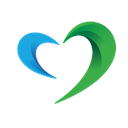
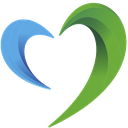
Checkpoint: ✅ تحسينات شاملة للمنصة - تجربة المستخدم والتوافق
**التحسينات الرئيسية:**

1⃣ **تحديث أيقونة التطبيق:**
   - استخدام الشعار الجديد (الأزرق والأخضر) في جميع الصفحات
   - توليد أيقونات PWA بجميع الأحجام (72-512px)
   - تحديث favicon.ico و apple-touch-icon.png
   - تحديث 11 صفحة لاستخدام الشعار الجديد

2⃣ **تحسين RTL (من اليمين لليسار):**
   - إضافة dir="rtl" في جميع صفحات لوحة التحكم
   - تحسين محاذاة النصوص العربية
   - إصلاح اتجاه العناصر في الحوارات والنماذج

3⃣ **تحسين responsive design للوحة التحكم:**
   - تحسين DashboardSidebar للجوال (bottom navigation)
   - عرض جميع عناصر التنقل (7 عناصر) مع scroll أفقي
   - تحسين البطاقات والجداول للجوال

4⃣ **تحسين تجربة المستخدم على الهواتف:**
   - تحديث Navbar و HomePage بالشعار الجديد
   - تحسين responsive design في جميع الصفحات
   - تحسين التنقل والتفاعل على الأجهزة المحمولة

**النتيجة:**
- ✅ TypeScript: 0 errors
- ✅ LSP: No errors
- ✅ Dev server: running
- ✅ PWA icons: generated
- ✅ RTL: improved
- ✅ Responsive: enhanced
- ✅ UX: optimized

المنصة الآن محسّنة بالكامل لجميع الأجهزة مع الشعار الجديد!

diff --git a/client/src/pages/DoctorAppointments.tsx b/client/src/pages/DoctorAppointments.tsx
@@ -86,7 +86,7 @@ export default function DoctorAppointments() {
           <div className="container py-4">
             <div className="flex items-center justify-between">
               <img 
-                src="/assets/logo-color.png" 
+                src="/assets/new-logo.png" 
                 alt="المستشفى السعودي الألماني" 
                 className="h-16 md:h-20"
               />
@@ -144,7 +144,7 @@ export default function DoctorAppointments() {
                     <CardContent className="p-4">
                       <div className="aspect-square rounded-lg overflow-hidden mb-3">
                         <img 
-                          src={doctor.image || '/assets/logo-color.png'} 
+                          src={doctor.image || '/assets/new-logo.png'} 
                           alt={doctor.name}
                           className="w-full h-full object-cover"
                         />
@@ -176,7 +176,7 @@ export default function DoctorAppointments() {
                     {selectedDoctor && (
                       <div className="bg-primary/5 p-4 rounded-lg flex items-center gap-4">
                         <img 
-                          src={selectedDoctor.image || '/assets/logo-color.png'} 
+                          src={selectedDoctor.image || '/assets/new-logo.png'} 
                           alt={selectedDoctor.name}
                           className="w-16 h-16 rounded-full object-cover"
                         />

diff --git a/client/src/pages/DoctorsListPage.tsx b/client/src/pages/DoctorsListPage.tsx
@@ -86,7 +86,7 @@ export default function DoctorAppointments() {
           <div className="container py-4">
             <div className="flex items-center justify-between">
               <img 
-                src="/assets/logo-color.png" 
+                src="/assets/new-logo.png" 
                 alt="المستشفى السعودي الألماني" 
                 className="h-16 md:h-20"
               />
@@ -144,7 +144,7 @@ export default function DoctorAppointments() {
                     <CardContent className="p-4">
                       <div className="aspect-square rounded-lg overflow-hidden mb-3">
                         <img 
-                          src={doctor.image || '/assets/logo-color.png'} 
+                          src={doctor.image || '/assets/new-logo.png'} 
                           alt={doctor.name}
                           className="w-full h-full object-cover"
                         />
@@ -176,7 +176,7 @@ export default function DoctorAppointments() {
                     {selectedDoctor && (
                       <div className="bg-primary/5 p-4 rounded-lg flex items-center gap-4">
                         <img 
-                          src={selectedDoctor.image || '/assets/logo-color.png'} 
+                          src={selectedDoctor.image || '/assets/new-logo.png'} 
                           alt={selectedDoctor.name}
                           className="w-16 h-16 rounded-full object-cover"
                         />

diff --git a/client/src/components/DashboardSidebar.tsx b/client/src/components/DashboardSidebar.tsx
@@ -117,9 +117,9 @@ export default function DashboardSidebar({ currentPath }: DashboardSidebarProps)
       </aside>
 
       {/* Mobile Bottom Navigation */}
-      <nav className="lg:hidden fixed bottom-0 left-0 right-0 bg-white border-t shadow-lg z-50">
-        <div className="grid grid-cols-4 gap-1 p-2">
-          {navItems.slice(0, 4).map((item) => {
+      <nav className="lg:hidden fixed bottom-0 left-0 right-0 bg-white border-t shadow-lg z-50 overflow-x-auto">
+        <div className="flex gap-1 p-2 min-w-max">
+          {navItems.map((item) => {
             const Icon = item.icon;
             const isActive = currentPath === item.href || 
               (item.href !== "/dashboard" && currentPath.startsWith(item.href));
@@ -128,11 +128,11 @@ export default function DashboardSidebar({ currentPath }: DashboardSidebarProps)
               <Button
                 key={item.href}
                 variant={isActive ? "default" : "ghost"}
-                className="flex-col h-auto py-2 px-1"
+                className="flex-col h-auto py-2 px-3 min-w-[80px]"
                 onClick={() => setLocation(item.href)}
               >
-                <Icon className="h-5 w-5 mb-1" />
-                <span className="text-xs">{item.title}</span>
+                <Icon className="h-5 w-5 mb-1 flex-shrink-0" />
+                <span className="text-xs whitespace-nowrap">{item.title}</span>
               </Button>
             );
           })}

diff --git a/client/src/pages/AdminDashboard.tsx b/client/src/pages/AdminDashboard.tsx
@@ -325,7 +325,7 @@ export default function AdminDashboard() {
         <Card className="max-w-md w-full">
           <CardHeader className="text-center">
             <img 
-              src="/assets/logo-color.png" 
+              src="/assets/new-logo.png" 
               alt="المستشفى السعودي الألماني" 
               className="h-20 mx-auto mb-4"
             />
@@ -360,7 +360,7 @@ export default function AdminDashboard() {
             {/* Logo and Title */}
             <div className="flex items-center gap-2 md:gap-4 min-w-0 flex-1">
               <img 
-                src="/assets/logo-color.png" 
+                src="/assets/new-logo.png" 
                 alt="المستشفى السعودي الألماني" 
                 className="h-10 md:h-12 flex-shrink-0"
               />

diff --git a/client/src/components/Navbar.tsx b/client/src/components/Navbar.tsx
@@ -25,7 +25,7 @@ export default function Navbar() {
           {/* Logo and Title */}
           <Link href="/">
             <div className="flex items-center gap-3 hover:opacity-80 transition-opacity cursor-pointer">
-              <img src={APP_LOGO} alt={APP_TITLE} className="h-12 w-auto" />
+              <img src="/assets/new-logo.png" alt={APP_TITLE} className="h-12 w-auto" />
               <div className="hidden md:block">
                 <h1 className="text-lg font-bold text-green-900">{APP_TITLE}</h1>
                 <p className="text-xs text-gray-500">نرعاكم كأهالينا</p>

diff --git a/client/src/pages/HomePage.tsx b/client/src/pages/HomePage.tsx
@@ -65,9 +65,9 @@ export default function HomePage() {
         <div className="container mx-auto px-4">
           <div className="max-w-4xl mx-auto text-center">
             <img
-              src={APP_LOGO}
+              src="/assets/new-logo.png"
               alt={APP_TITLE}
-              className="h-20 w-auto mx-auto mb-6 brightness-0 invert"
+              className="h-20 w-auto mx-auto mb-6"
             />
             <h1 className="text-2xl sm:text-3xl md:text-5xl font-bold mb-4">{APP_TITLE}</h1>
             <p className="text-lg sm:text-xl md:text-2xl mb-2 text-green-100">

diff --git a/client/src/pages/SocialMediaReports.tsx b/client/src/pages/SocialMediaReports.tsx
@@ -47,7 +47,7 @@ export default function SocialMediaReports() {
     : "0.0";
 
   return (
-    <div className="min-h-screen bg-gradient-to-br from-purple-50 via-pink-50 to-blue-50">
+    <div className="min-h-screen bg-gradient-to-br from-purple-50 via-pink-50 to-blue-50" dir="rtl">
       {/* Header */}
       <header className="bg-white/80 backdrop-blur-sm border-b sticky top-0 z-10">
         <div className="container mx-auto px-4 py-4 flex items-center justify-between">

diff --git a/client/src/pages/ManagementPage.tsx b/client/src/pages/ManagementPage.tsx
@@ -57,7 +57,7 @@ export default function ManagementPage() {
               {/* Logo and Title */}
               <div className="flex items-center gap-2 md:gap-4 min-w-0 flex-1">
                 <img 
-                  src="/assets/logo-color.png" 
+                  src="/assets/new-logo.png" 
                   alt="المستشفى السعودي الألماني" 
                   className="h-10 md:h-12 flex-shrink-0"
                 />

diff --git a/client/src/components/UnderDevelopmentPage.tsx b/client/src/components/UnderDevelopmentPage.tsx
@@ -65,7 +65,7 @@ export default function UnderDevelopmentPage({
             <div className="flex items-center justify-between">
               <div className="flex items-center gap-4">
                 <img 
-                  src="/assets/logo-color.png" 
+                  src="/assets/new-logo.png" 
                   alt="المستشفى السعودي الألماني" 
                   className="h-12"
                 />

diff --git a/client/src/pages/SettingsPage.tsx b/client/src/pages/SettingsPage.tsx
@@ -14,7 +14,7 @@ export default function SettingsPage() {
           <div className="flex items-center justify-between">
             <div className="flex items-center gap-4">
               <img 
-                src="/assets/logo-color.png" 
+                src="/assets/new-logo.png" 
                 alt="المستشفى السعودي الألماني" 
                 className="h-12"
               />

diff --git a/client/src/pages/CampDetailPage.tsx b/client/src/pages/CampDetailPage.tsx
@@ -86,7 +86,7 @@ export default function CampDetailPage() {
       <SEO 
         title={seoTitle}
         description={seoDescription}
-        image={camp.imageUrl || "/assets/logo-color.png"}
+        image={camp.imageUrl || "/assets/new-logo.png"}
         type="article"
         keywords={`${camp.name}, مخيم طبي, مجاني, صنعاء, المستشفى السعودي الألماني`}
       />

diff --git a/client/src/pages/OfferDetailPage.tsx b/client/src/pages/OfferDetailPage.tsx
@@ -87,7 +87,7 @@ export default function OfferDetailPage() {
       <SEO 
         title={seoTitle}
         description={seoDescription}
-        image={offer.imageUrl || "/assets/logo-color.png"}
+        image={offer.imageUrl || "/assets/new-logo.png"}
         type="article"
         keywords={`${offer.title}, عرض طبي, صنعاء, المستشفى السعودي الألماني`}
       />
